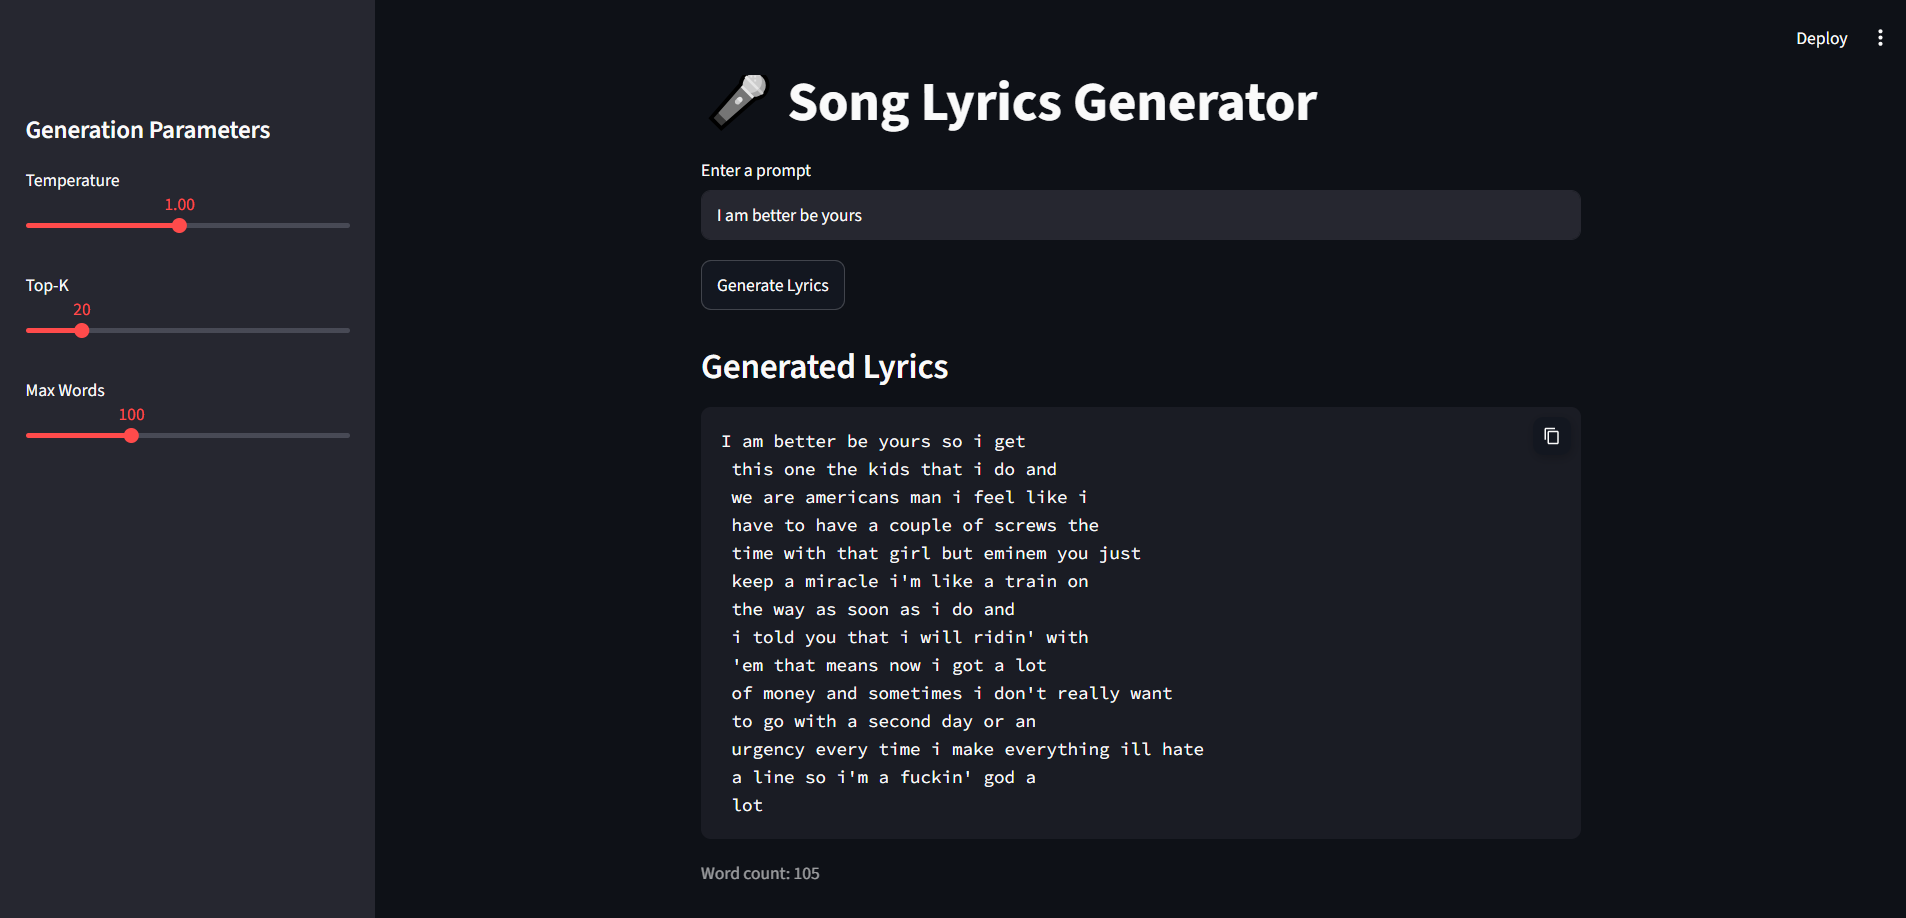
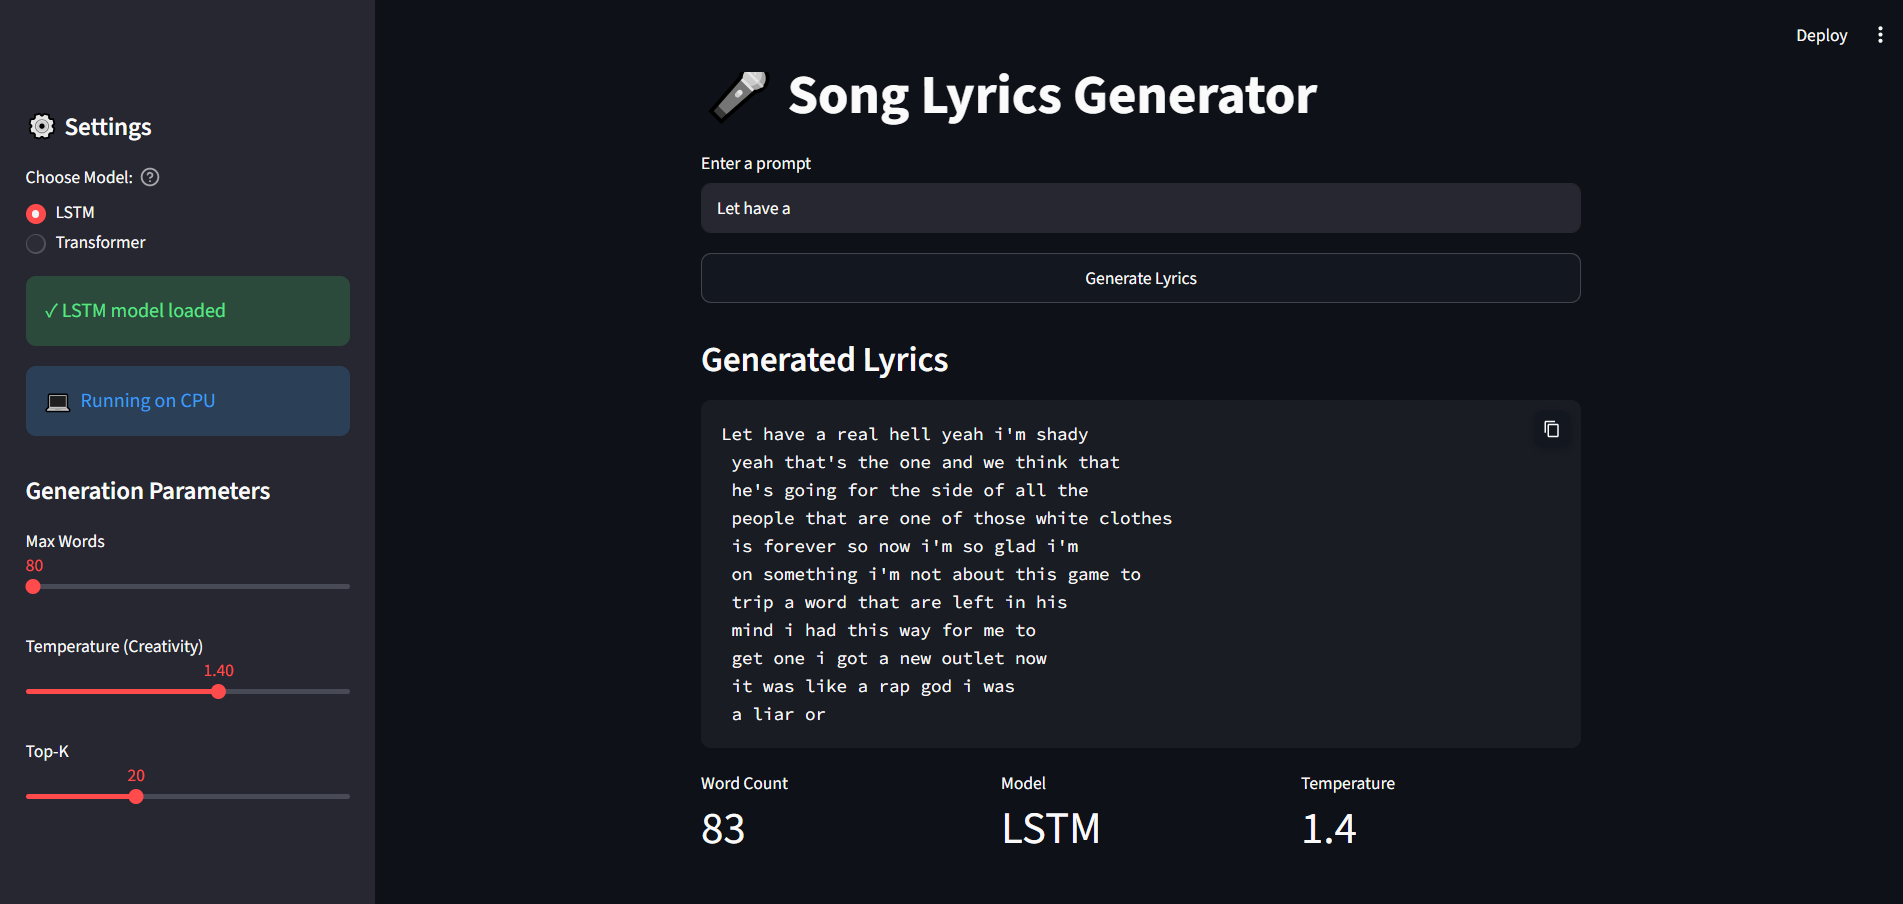
New Changes

diff --git a/README.md b/README.md
@@ -1,8 +1,20 @@
 # 🎤 Song Lyrics Generator
 
 ## Project Overview
-This project uses a word-level LSTM trained on song lyrics to generate new text from a prompt. The model can create original song lyrics based on a short input phrase.
+This project generates original song lyrics using two different neural network architectures:
+- **LSTM Model** - Fast and reliable word-level generation
+- **Transformer Model** - Advanced architecture with self-attention mechanism
 
+Both models are trained on diverse song lyrics and can be selected from the web interface. Choose between speed (LSTM) and advanced features (Transformer) for your lyrics generation needs.
+
+## 🎯 Features
+
+- **Dual Model Support** - Switch between LSTM and Transformer models
+- **Interactive Web Interface** - Built with Streamlit for easy use
+- **Customizable Parameters** - Control temperature, top-K sampling, and word count
+- **GPU Acceleration** - Automatic GPU detection and utilization
+- **Word-Level Generation** - Generates realistic song lyrics word-by-word
+- **Model Comparison** - Compare outputs from both architectures
 
 # Screenshots
 
@@ -10,21 +22,36 @@ This project uses a word-level LSTM trained on song lyrics to generate new text 
 
 ## Model Architecture
 
+### LSTM Model
+
 | Hyperparameter | Value |
 |---|---|
 | Vocabulary Size | 4,981 |
 | Embedding Dimension | 128 |
 | Hidden Dimension | 512 |
-| LSTM Layers | 3 |
+| LSTM Layers | 2 |
 | Dropout | 0.2 |
 | Sequence Length | 20 |
 | Total Parameters | ~8.7M |
+
+### Transformer Model
+
+| Hyperparameter | Value |
+|---|---|
+| Vocabulary Size | 4,981 |
+| Model Dimension (d_model) | 128 |
+| Number of Heads | 4 |
+| Feedforward Dimension | 1024 |
+| Transformer Layers | 2 |
+| Dropout | 0.2 |
+| Max Sequence Length | 512 |
+| Positional Encoding | Sine/Cosine |
 
 ## Installation
 
 ```bash
 git clone https://github.com/Prat-2005/song-lyrics-generator.git
-cd lyrics-generator
+cd song-lyrics-generator
 pip install -r requirements.txt
 ```
 
@@ -34,29 +61,93 @@ pip install -r requirements.txt
 streamlit run app.py
 ```
 
+The app will open at `http://localhost:8501` with a model selector in the sidebar.
+
+## Usage
+
+1. **Select Model** - Choose LSTM or Transformer from the sidebar radio button
+2. **Enter Prompt** - Type a lyrics prompt (e.g., "love is", "i am", "you better")
+3. **Adjust Parameters**:
+   - **Max Words** - Control generated text length (80-500)
+   - **Temperature** - Higher = more creative (0.5-2.0)
+   - **Top-K** - Limit sampling to top K tokens (5-50)
+4. **Generate** - Click "Generate Lyrics" button
+5. **Compare** - Switch models to compare outputs for the same prompt
+
 ## Example Outputs
 
-**Prompt:** `love is`
+**Prompt:** `love is` 
 > love is it out it get up go to get a little bit and i'm a man and a laugh like a punch at your neck and hit your ass and i don't know what to do this and i'll be livin' at me and let me bust the shit out the time i don't wanna see what i say i just want a lot i don't wanna seem to play but i ain't playin' i got a rhyme that i don't know what you say i'm just fed up i've been on my dick but i don't need no one i'm 'bout to be a father if i was just checking the same it's got a woman and a laugh just a couple of months and metaphors attached to my damn friend of mine and a place and smack a million bucks i'd get a list in the world
 
-**Prompt:** `i am`
+**Prompt:** `i am` 
 > i am no matter oh shit it's too mainstream and it's cold it's ridiculous he says but i'm going for that static that i was done with all i just do is murder hands through my head so i didn't feel so much more as a white life you can get ourselves off of this bitch and i got a breath and a sexy father i'ma make a whole damn life and i can't figure out which spice eminem i want to make a new wallet like a fat butt and make the beat down and turn off and make 'em all i do is number the way that i do is number time that you did i never want i think of a girl and i don't really got shit in my eyes but what would you do how to do
 
-**Prompt:** `you better`
-> you better run your whole ass in the door of me fuck all that was a girl all this shit is mine and i ain't gon' let 'em like that i won't do for her i just want it just stuck on
-
+**Prompt:** `you better` 
+> you better off rock with you and i say i let you off yeah and if i can't go boy i'm on a star 'cause your body rock and you don't give it then you don't let the streets get it on
 
 ## Project Structure
 
 ```
-lyrics-generator/
+song-lyrics-generator/
 ├── models/
-├── notebooks/
+│   ├── lyrics_lstm_checkpoint.pth
+│   └── best_transformer_model.pth
 ├── src/
-│   ├── model.py
-│   ├── inference.py
-│   └── utils.py
-├── app.py
+│   ├── model.py              # LSTM & Transformer architectures
+│   ├── inference.py          # Model loading & generation
+│   ├── dataset.py            # Data preprocessing
+│   └── utils.py              # Helper functions
+├── public/
+├── app.py                    # Streamlit web interface
 ├── requirements.txt
+├── PROMPT.md
 └── README.md
 ```
+
+## Model Checkpoints
+
+- **LSTM**: `models/lyrics_lstm_checkpoint.pth`
+  - Lighter weight, faster inference
+  - Best for real-time generation
+
+- **Transformer**: `models/best_transformer_model.pth`
+  - Advanced attention mechanism
+  - Better long-range dependencies
+  - Typically higher quality outputs
+
+## Training Data
+
+Models trained on lyrics from artists:
+- Beyoncé, Dua Lipa, Eminem, Justin Bieber, Taylor Swift, Drake, Nicki Minaj, Coldplay, Billie Eilish
+
+**Total Dataset**: ~4,500 lyrics across 9 artists
+
+## Technologies Used
+
+- **PyTorch** - Deep learning framework
+- **Streamlit** - Web interface
+- **CUDA** - GPU acceleration
+- **Pandas** - Data processing
+
+## Tips for Best Results
+
+1. **Use meaningful prompts** - Start with words that frequently appear in lyrics
+2. **Adjust temperature** - Lower (0.5-1.0) for coherent text, higher (1.5-2.0) for creativity
+3. **Try both models** - Compare outputs to find your preference
+4. **Longer generations** - Use higher max_words for more complete verses
+
+## Future Enhancements
+
+- [ ] Fine-tuning on specific artists
+- [ ] Rhyme scheme detection
+- [ ] Beam search decoding
+- [ ] Real-time streaming generation
+- [ ] Multi-artist model fusion
+
+## License
+
+This project is licensed under the MIT License - see the LICENSE file for details.
+
+## Author
+
+Created as a demonstration of modern NLP techniques for creative text generation.